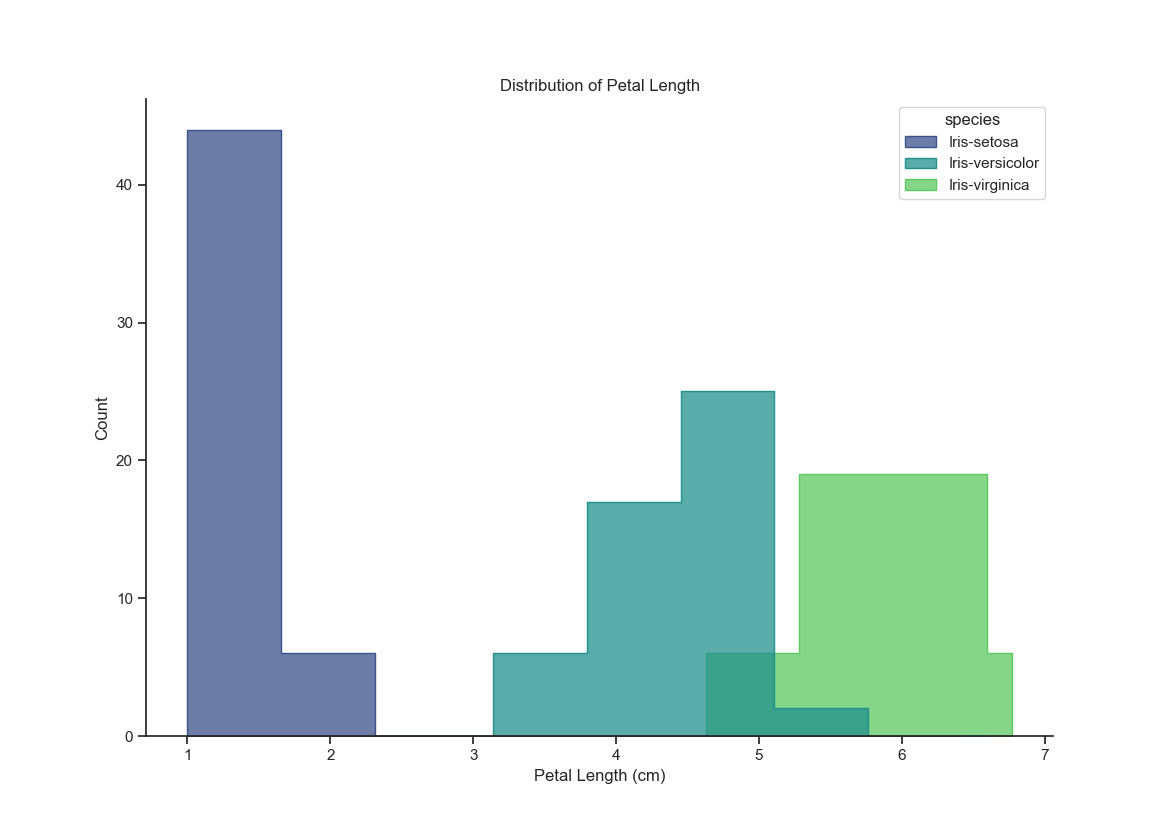
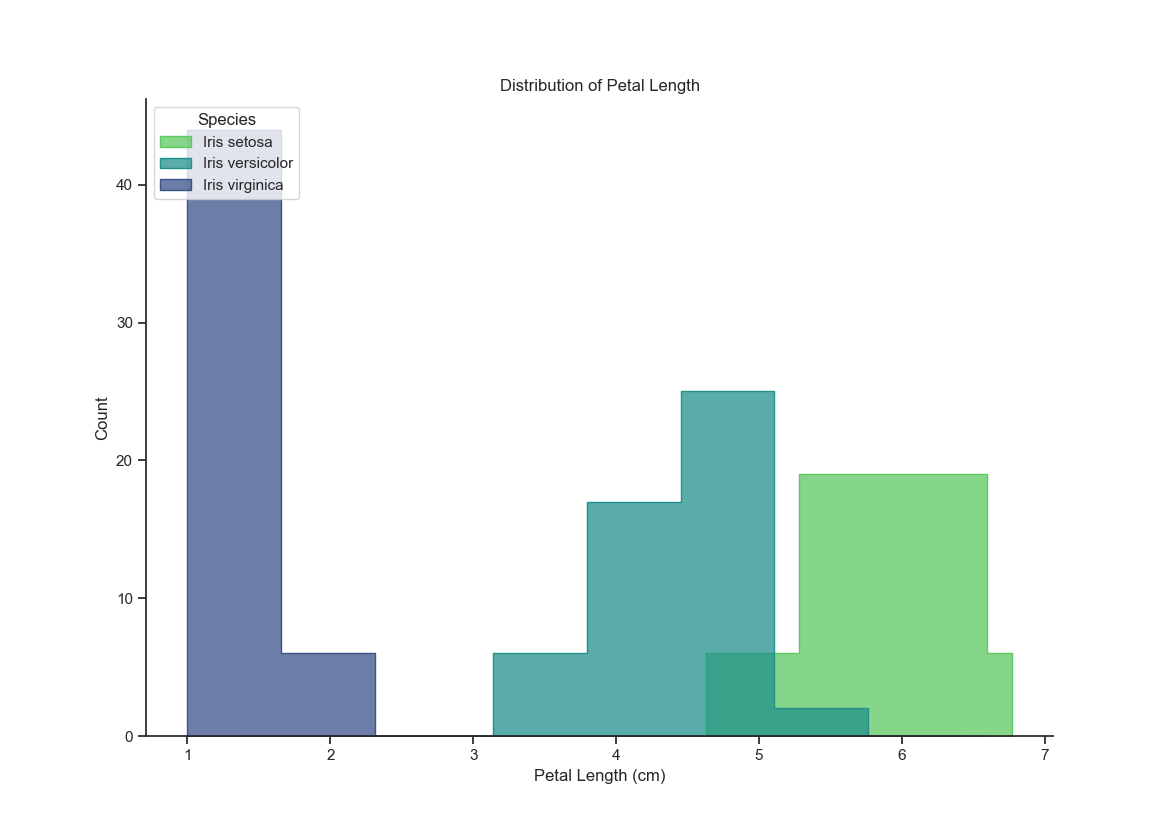
updating legends

Changed region(s): [[0.1231, 0.1209, 0.2462, 0.2418], [0.7692, 0.1209, 0.8923, 0.2418]]

diff --git a/analysis.py b/analysis.py
@@ -69,10 +69,11 @@ sns.set_style("ticks")
 # Addition of ticks to the y-axis
 plt.title("Distribution of Petal Length")
 # Setting the title of the plot
-sns.histplot(data=iris_data, x="petal_length", hue="species", palette="viridis", element="step", multiple="dodge", shrink=.8)
+sns.histplot(data=iris_data, x="petal_length", hue="species", palette="viridis", element="step", multiple="dodge", shrink=.8, legend=False)
 # Selecting the dataset and looking at petal length only, the hue means all species will be coloured differently, then some general formatting of the hist
 plt.xlabel("Petal Length (cm)")
 # Setting the x-label
+plt.legend(title="Species",loc='upper left', labels=['Iris setosa', "Iris versicolor", 'Iris virginica'])
 sns.despine()
 # Removing the top and right lines to make the graph more visually appealing
 plt.savefig('Distribution of Petal Length')
